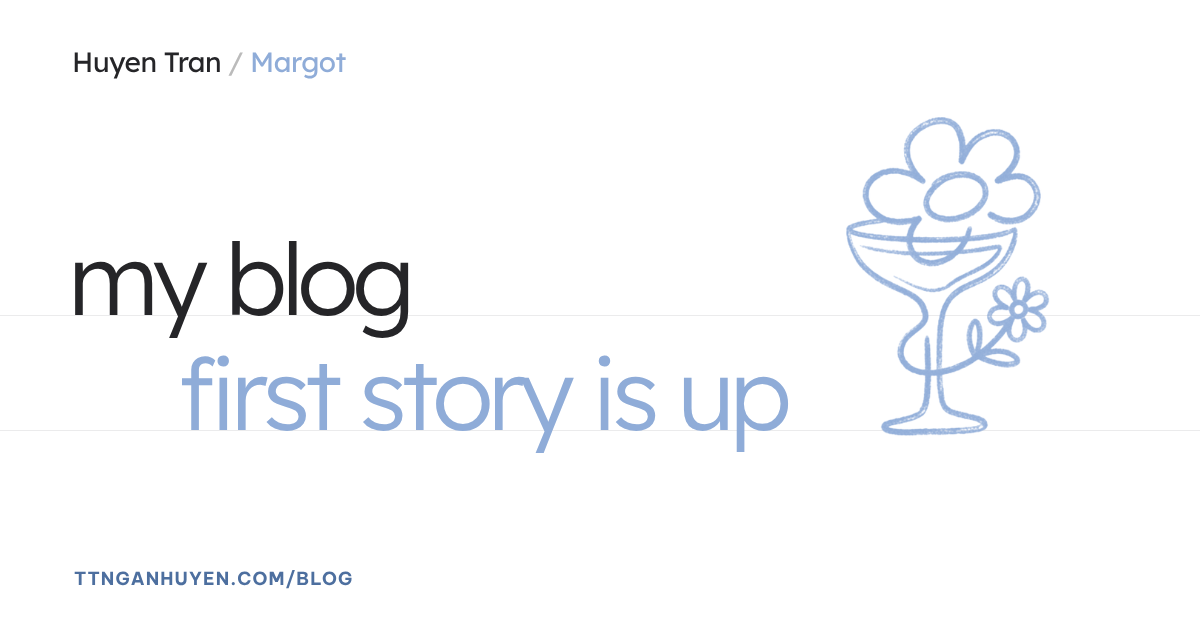
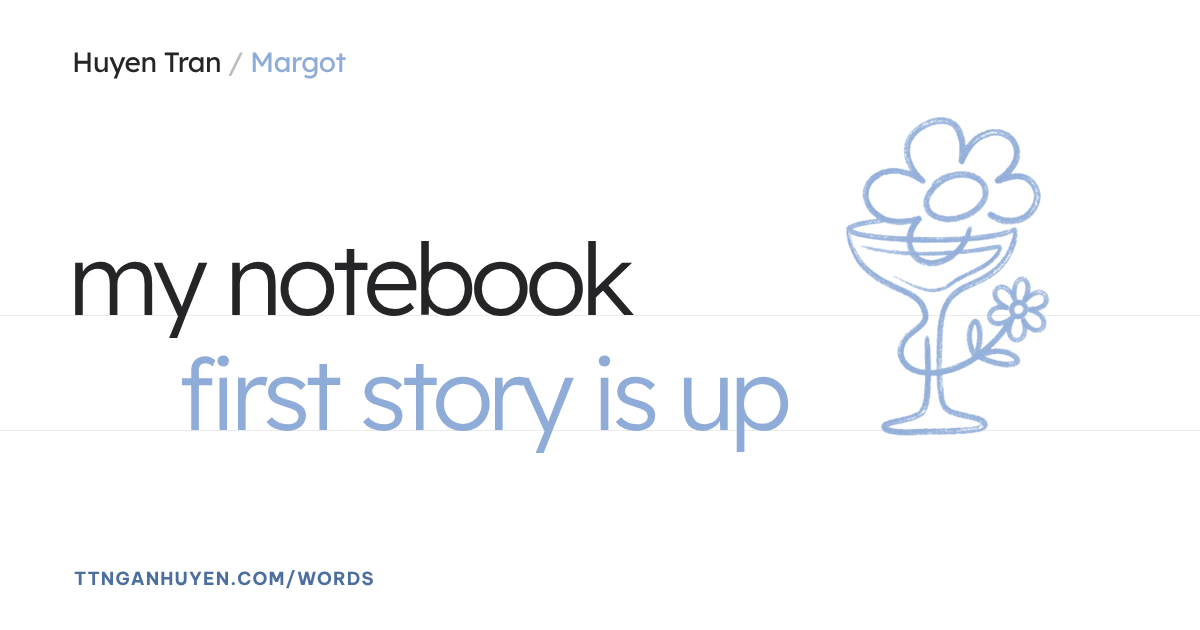
Words: 'my notebook' headline, arrow in tagline, redraw og-blog thumbnail
Claude-Session: https://claude.ai/code/session_01V6iSCjwew1B6GQSPLhHT5s

Changed region(s): [[0.185, 0.3921, 0.5242, 0.5429], [0.2467, 0.9048, 0.3083, 0.9349]]

diff --git a/index.html b/index.html
@@ -1111,8 +1111,8 @@ the puzzles</h2>
   <section class="band soon">
     <div class="in">
       <span class="label">stories &amp; notes</span>
-      <h1 class="soon-h"><span>my blog</span><span class="s2">first story is up<span class="cur"></span></span></h1>
-      <p class="soon-p">as-is thoughts: 90% scope creep<br>&gt; unmitigated emotional leakage</p>
+      <h1 class="soon-h"><span>my notebook</span><span class="s2">first story is up<span class="cur"></span></span></h1>
+      <p class="soon-p">as-is thoughts: 90% scope creep<br>→ unmitigated emotional leakage</p>
       <div class="soon-grid">
         <a class="soon-card post-card" href="#/words/chuyen-ke"><span class="pc-img"><img src="img/chuyen-ke.jpg" alt="" loading="lazy"></span><span class="k">( 01 ) Chuyện kể · 24.10.2026</span><h3 lang="vi">Chuyện kể</h3><p lang="vi">...Cuộc sống mới, mình tiếp nhận được nhịp đi học, đi làm, có nhóm project, có thesis topic, cũng tìm student job, 1001 chuyện với bên này bên kia, rồi lớp học tiếng Hà Lan, thử vô vàn môn thể thao cũ lẫn mới, ở nhà thì nô nức với các bạn trong student housing, học lại cả cách đi chợ, đi siêu thị, cách bên này đặt lịch, làm thủ tục…</p><span class="tag read" data-vi="Đọc bài">Read the story</span></a>
         <div class="soon-card"><span class="k">( 02 ) Field notes</span><h3>What consulting taught me</h3><p>Small lessons from big rollouts.</p><span class="tag">Coming soon</span></div>
